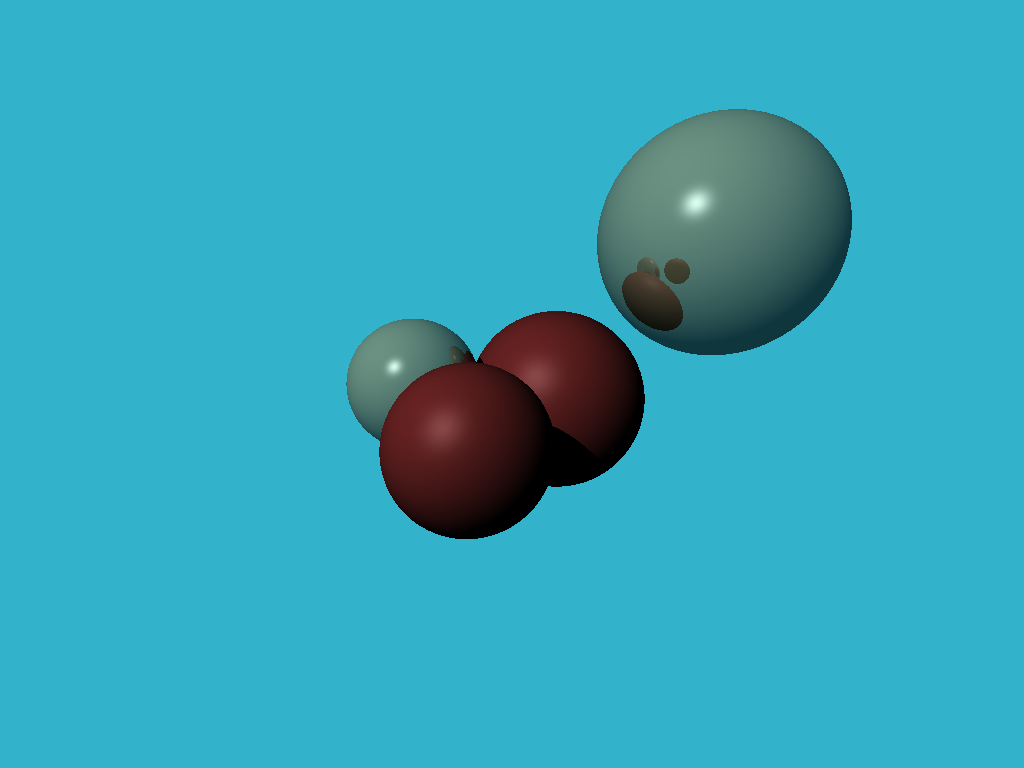
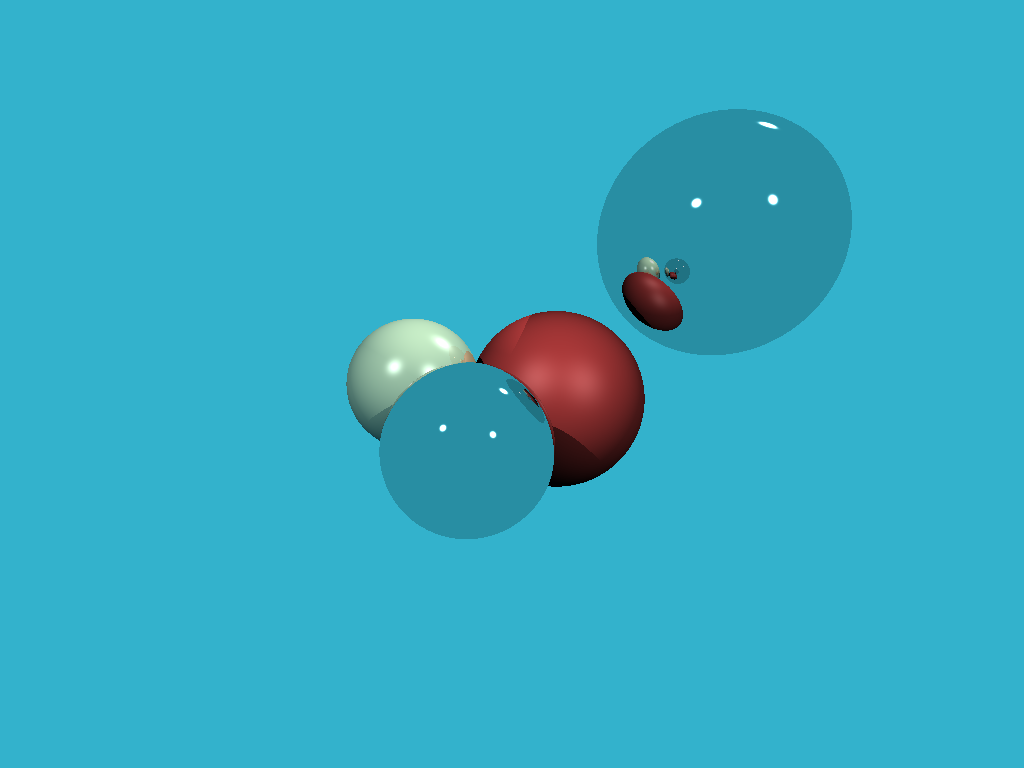
Step 7: reflection

Changed region(s): [[0.3438, 0.125, 0.8438, 0.7188]]

diff --git a/src/main.rs b/src/main.rs
@@ -43,7 +43,7 @@ use vectors::Vox;
 
 const DEFAULT_JITTER: f32 = 0.001;
 const MAX_RAY_BOUNCES: u32 = 4;
-const  CANVAS_WIDTH_HEIGHT: (u32, u32) = (1024, 768);
+const CANVAS_WIDTH_HEIGHT: (u32, u32) = (1024, 768);
 
 struct IntersectionState {
     hit_point: Vox,
@@ -82,8 +82,6 @@ fn cast_ray(ray: LightRay, scene: &[Sphere]) -> Option<IntersectionState> {
         ray,
     })
 }
-
-
 
 /// This function jitters a point along a noraml vector. Why do we need that? [@ssloy explains](https://github.com/ssloy/tinyraytracer/wiki/Part-1:-understandable-raytracing#step-6-shadows):
 ///"Why is that? It's just that our point lies on the surface of the object, and (except for the question of numerical errors) any ray from this point will intersect the object itself."
@@ -194,7 +192,6 @@ fn reflective_ray_cast(
 /// This function builds an image by simulating light rays.
 /// Each pixel of an image is translated into a light ray. For each pixel, the light ray simulation returns the color the pixel should get.
 fn render(spheres: Vec<Sphere>, lights: Vec<LightSource>, output: &str) {
-
     let (imgx, imgy) = CANVAS_WIDTH_HEIGHT;
     let mut imgbuf = image::ImageBuffer::new(imgx, imgy);
 
@@ -222,42 +219,72 @@ fn render(spheres: Vec<Sphere>, lights: Vec<LightSource>, output: &str) {
     imgbuf.save(output).expect("Failed saving canvas");
 }
 
+struct SphereBuilder {
+    spheres: Vec<Sphere>,
+}
+
+impl SphereBuilder {
+    fn new() -> Self {
+        Self { spheres: vec![] }
+    }
+
+    fn add(mut self, center: (f32, f32, f32), radius: f32, material: Material) -> Self {
+        self.spheres.push(Sphere {
+            center: Vox::new(center),
+            radius,
+            material,
+        });
+        self
+    }
+
+    fn build(self) -> Vec<Sphere> {
+        self.spheres
+    }
+}
+
+struct LightBuilder {
+    lights: Vec<LightSource>,
+}
+
+impl LightBuilder {
+    fn new() -> Self {
+        Self { lights: vec![] }
+    }
+
+    fn add(mut self, center: (f32, f32, f32), intensity: f32) -> Self {
+        self.lights.push(LightSource {
+            position: Vox::new(center),
+            intensity,
+        });
+        self
+    }
+
+    fn build(self) -> Vec<LightSource> {
+        self.lights
+    }
+}
+
 fn main() {
     let ivory = Material::new((0.4, 0.4, 0.3), (0.6, 0.3), 50., 0.3);
     let red_rubber = Material::new((0.3, 0.1, 0.1), (0.9, 0.1), 10., 0.0);
+    let mirror = Material::new((1., 1., 1.), (0., 10.), 1425., 0.8);
 
-    let s = Sphere {
-        center: Vox::new((-3., 0., -16.)),
-        radius: 2.0,
-        material: ivory,
-    };
+    let spheres = SphereBuilder::new()
+        .add((-3., -0., -16.), 2.0, ivory)
+        .add((-1., -1.5, -12.), 2.0, mirror)
+        .add((1.5, -0.5, -18.), 3.0, red_rubber)
+        .add((7., 5., -18.), 4., mirror)
+        .build();
 
-    let s2 = Sphere {
-        center: Vox::new((-1., -1.5, -12.)),
-        radius: 2.0,
-        material: red_rubber,
-    };
-
-    let s3 = Sphere {
-        center: Vox::new((1.5, -0.5, -18.)),
-        radius: 3.0,
-        material: red_rubber,
-    };
-
-    let s4 = Sphere {
-        center: Vox::new((7., 5., -18.)),
-        radius: 4.0,
-        material: ivory,
-    };
-
-    let light = LightSource {
-        position: Vox::new((-20., 20., 20.)),
-        intensity: 1.5,
-    };
+    let lights = LightBuilder::new()
+        .add((-20., 20., 20.), 1.5)
+        .add((30., 50., -25.), 1.3)
+        .add((30., 20., 30.), 1.3)
+        .build();
 
     render(
-        vec![s, s2, s3, s4],
-        vec![light],
+        spheres,
+        lights,
         "static/assets/current.png",
     );
 }

diff --git a/src/blocks.rs b/src/blocks.rs
@@ -2,6 +2,7 @@
 
 use crate::vectors::Vox;
 /// A sphere is a 3-D ball, it has a center point and a radius.
+#[derive(Debug, Clone, Copy)]
 pub struct Sphere {
     pub center: Vox,
     pub radius: f32,
@@ -138,7 +139,7 @@ impl Material {
         // let (r1, g1, b1) = dbg!(self.color);
         let (r1, g1, b1) = self.color;
         let (r2, g2, b2) = other.color;
-        
+
         let mixed_color = (
             (r1 + self.reflection_mixing_coef * r2).max(0.).min(1.),
             (g1 + self.reflection_mixing_coef * g2).max(0.).min(1.),
